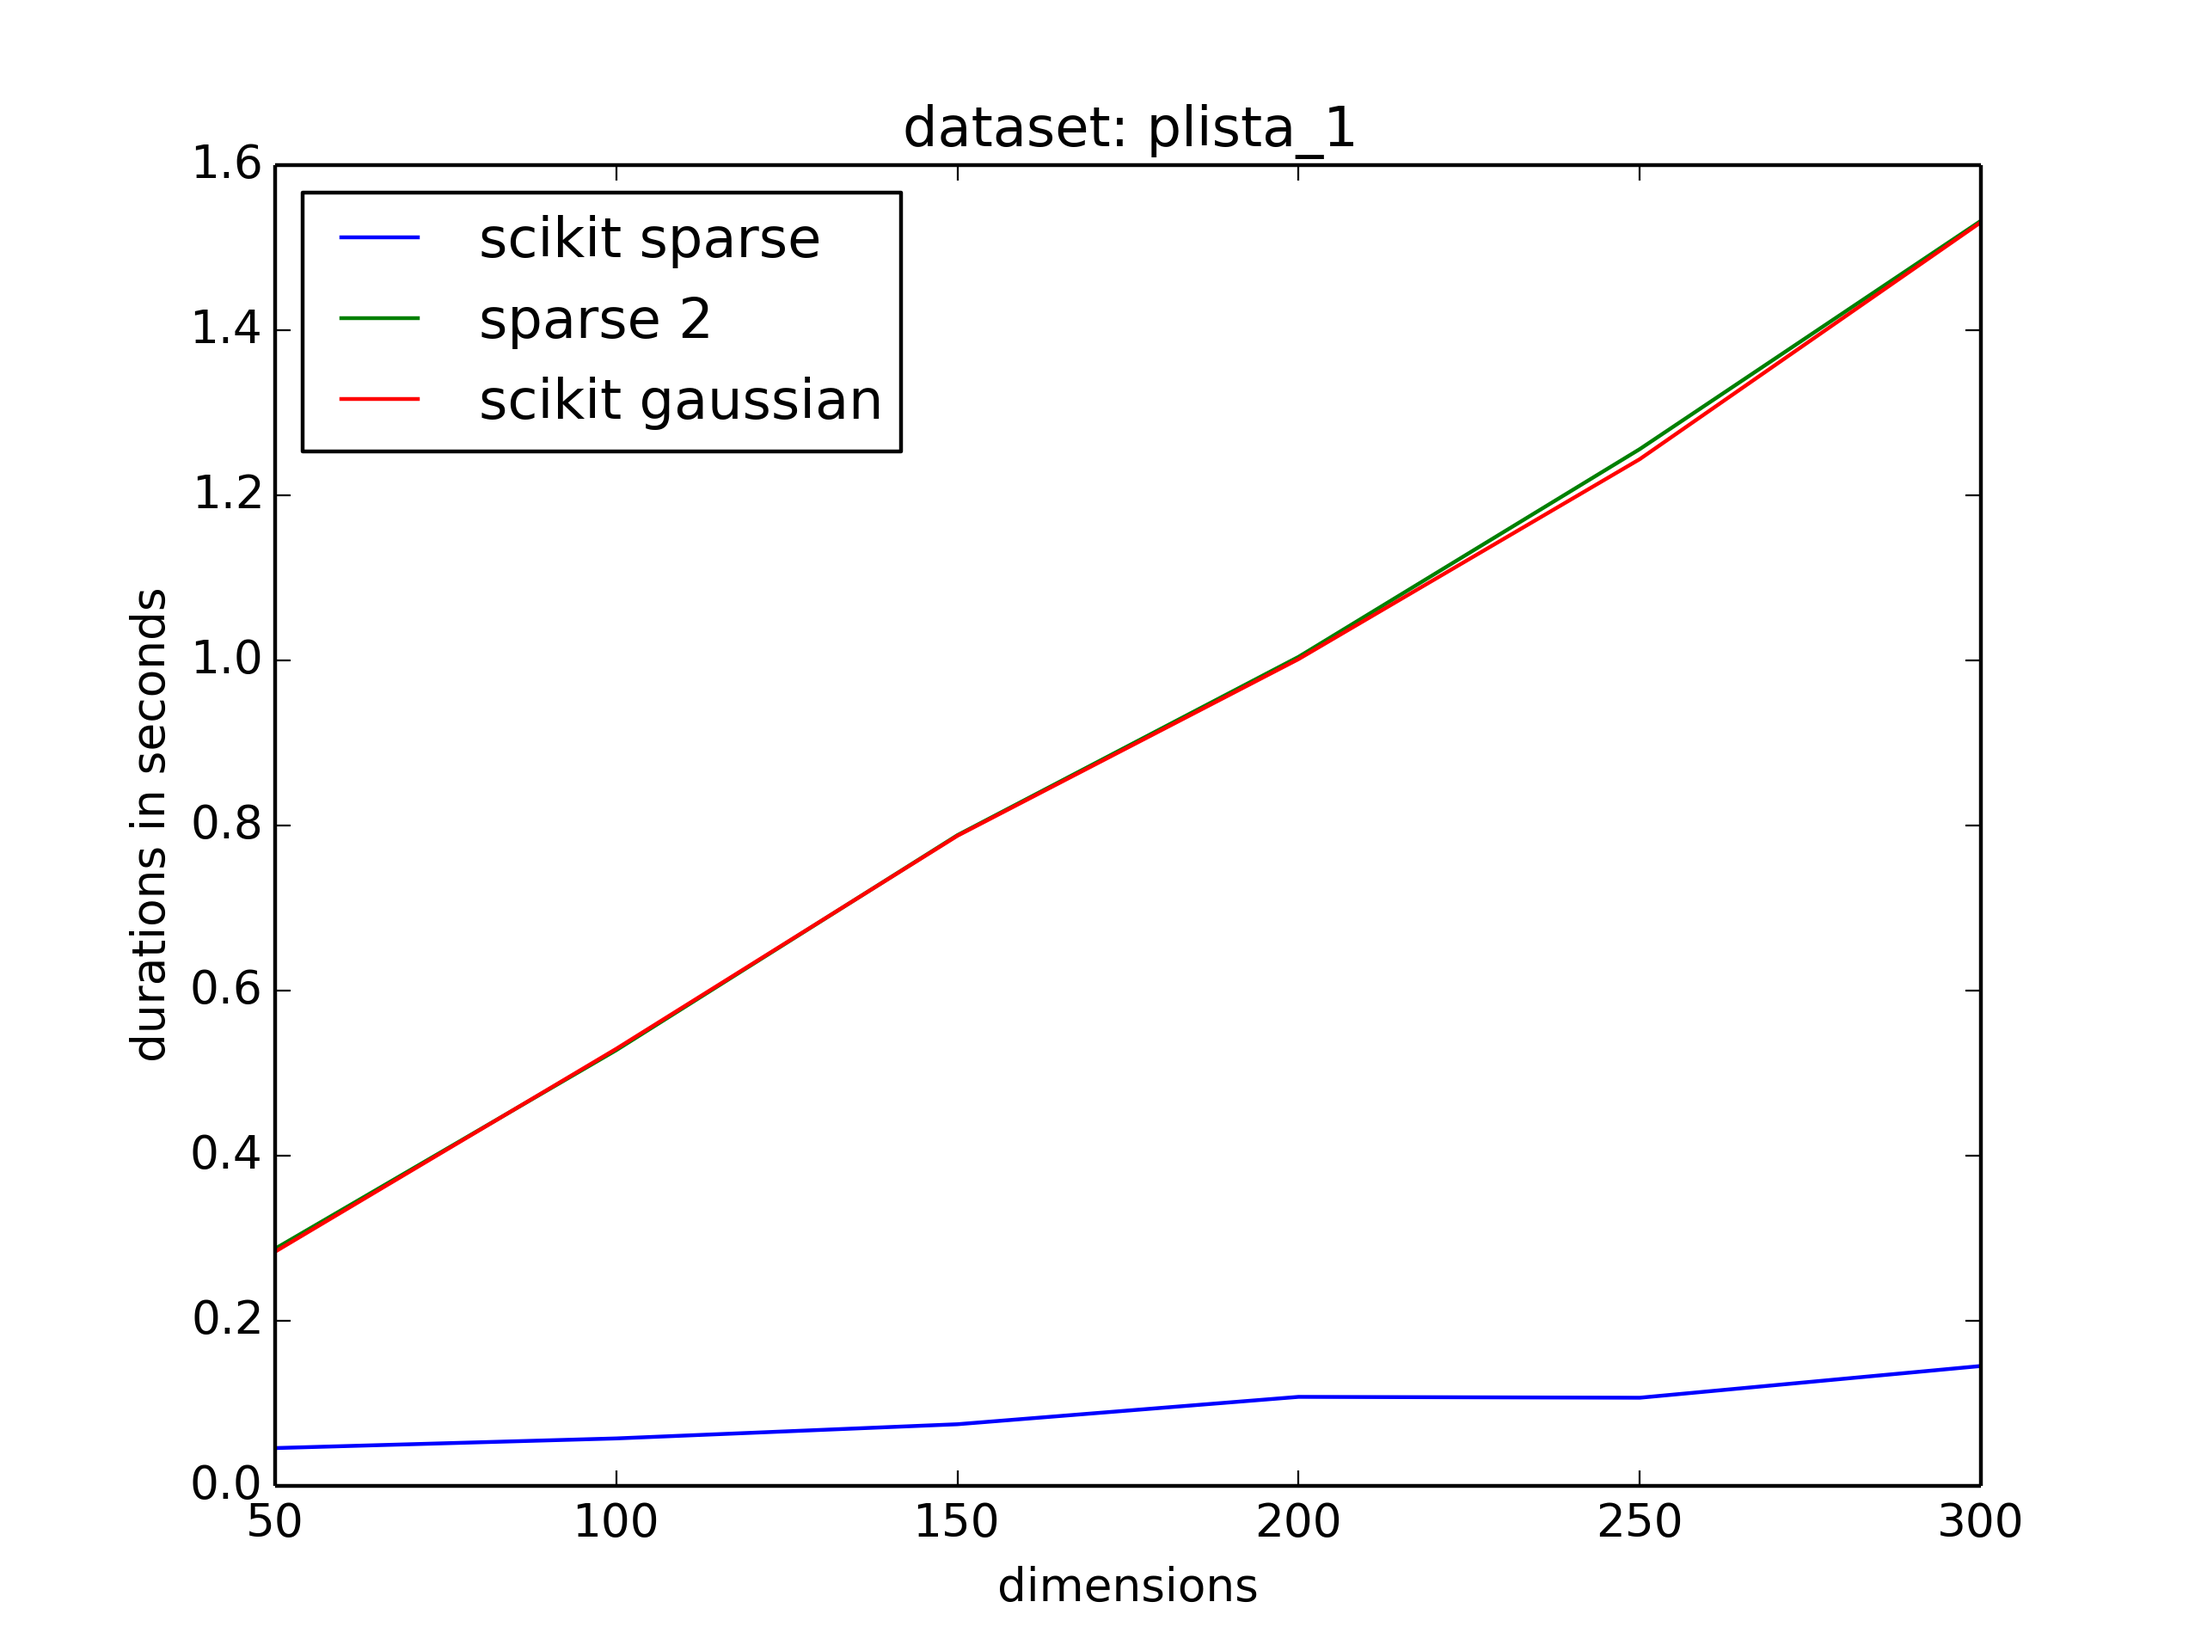
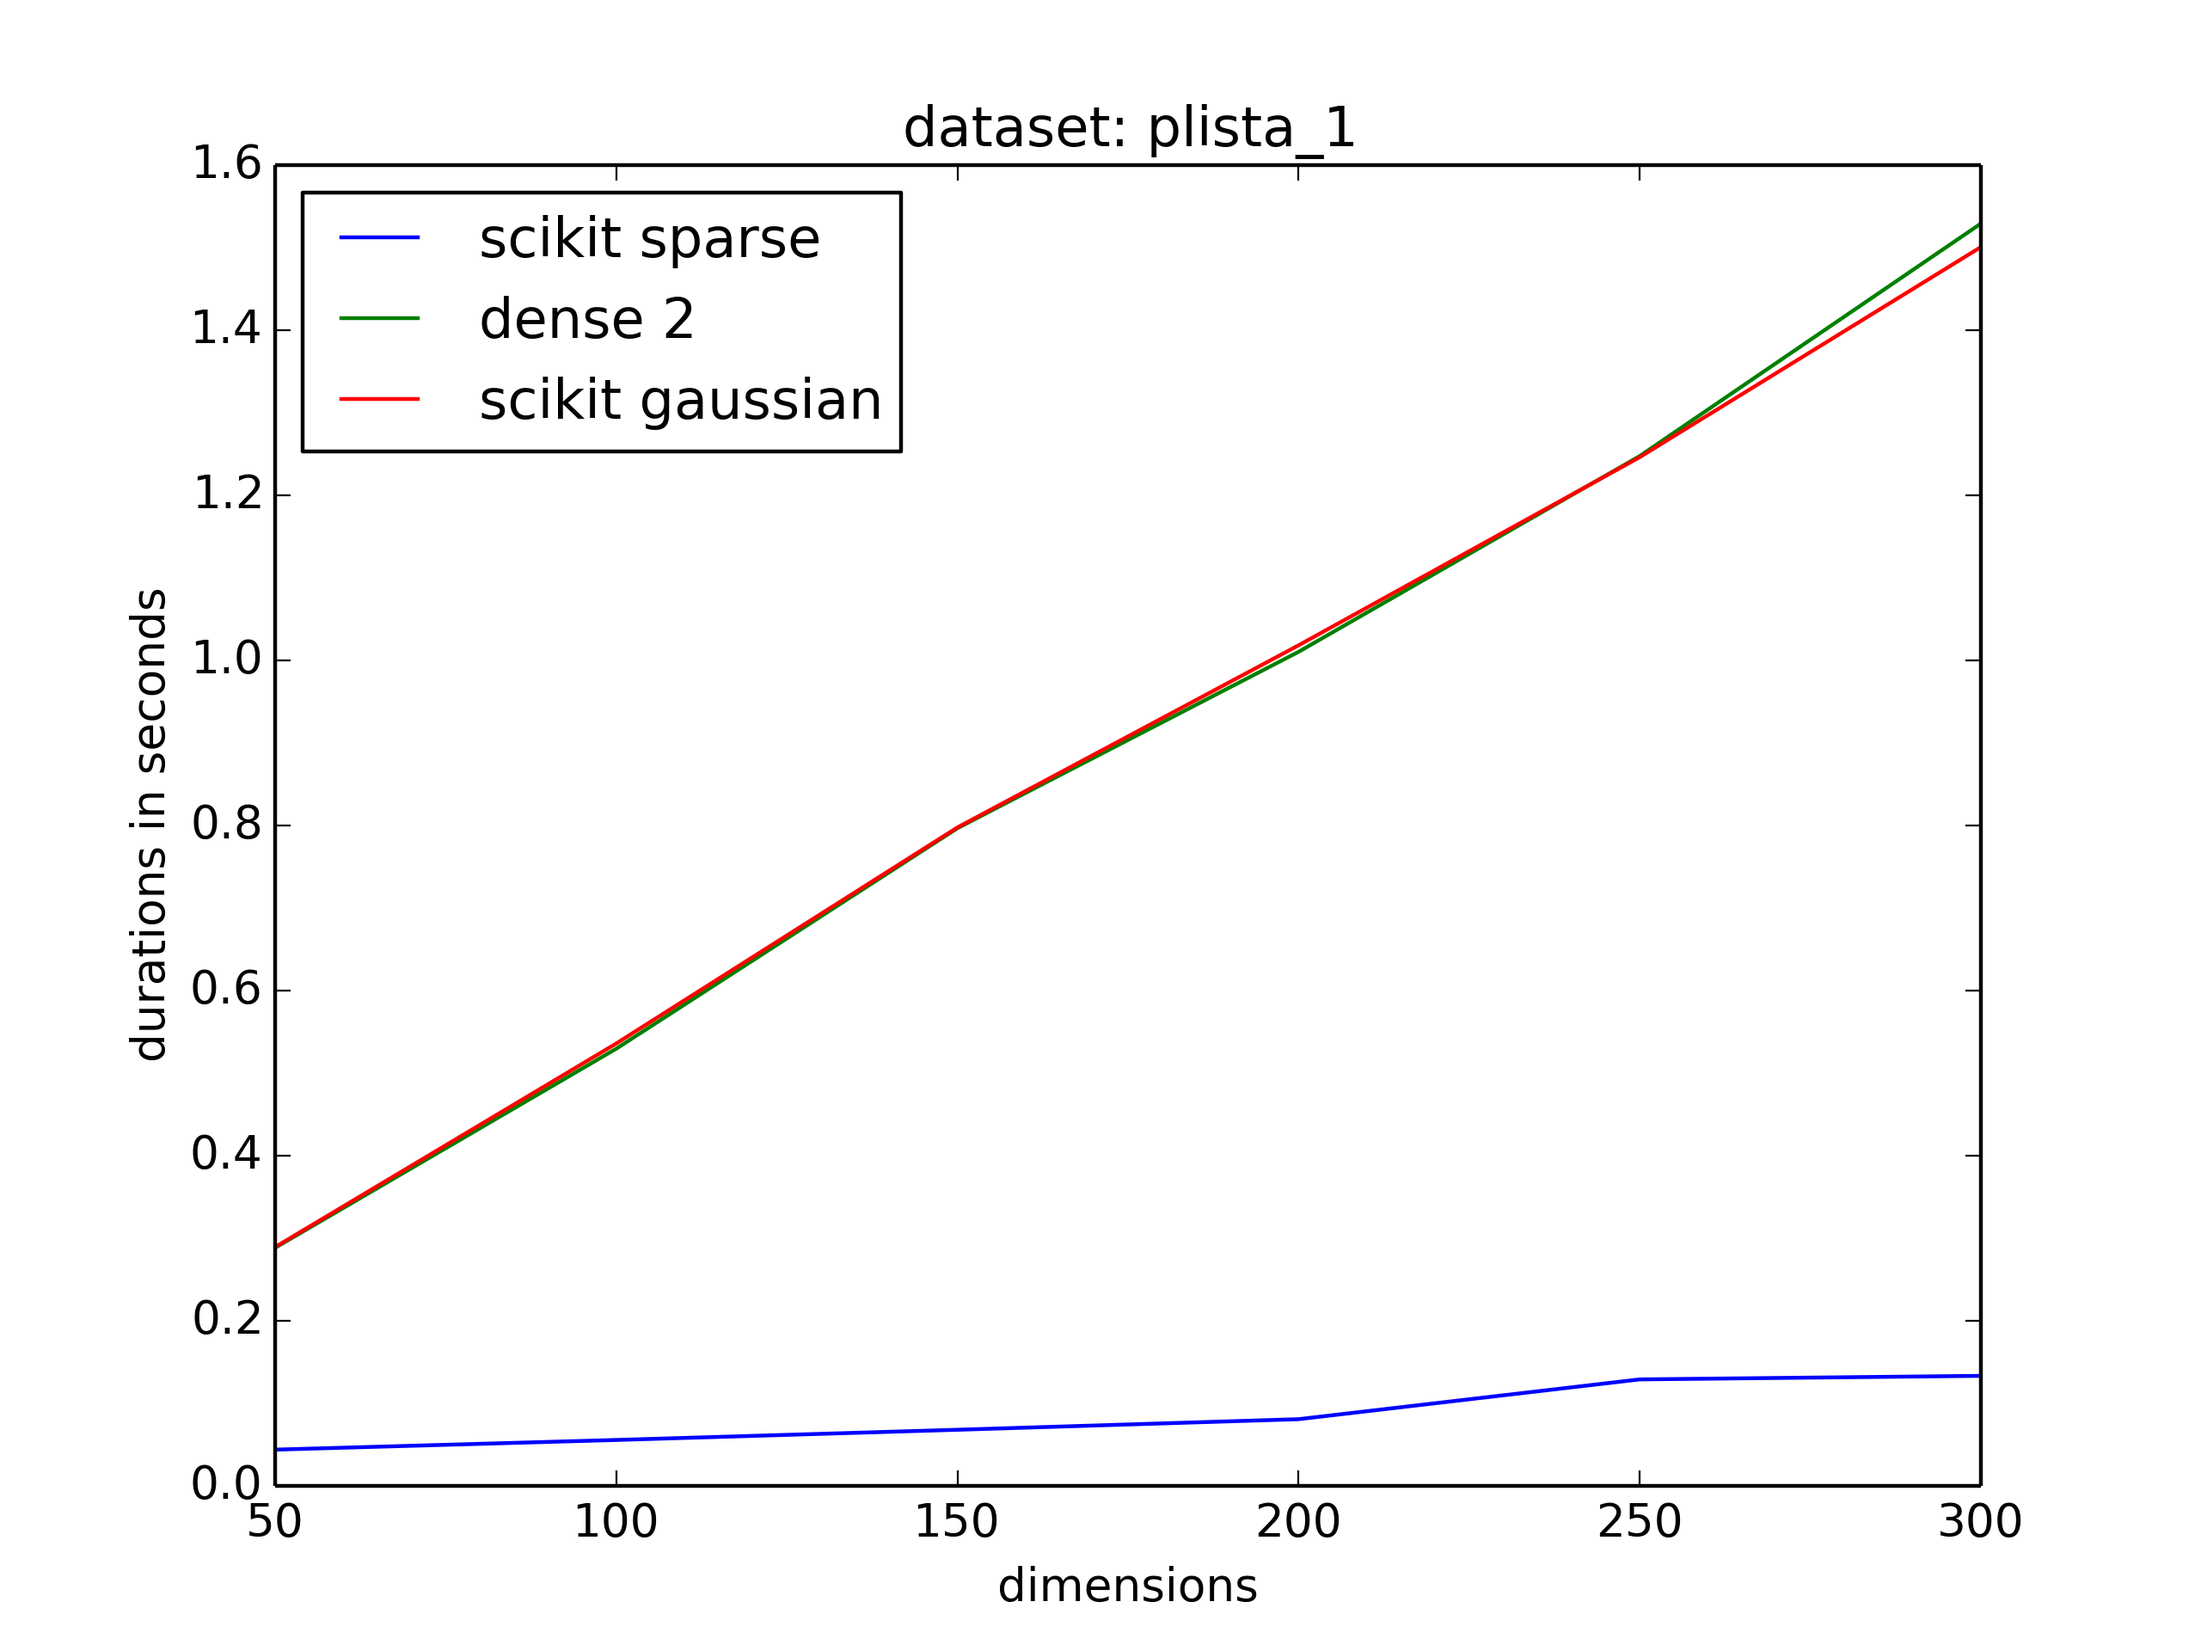
more tests

diff --git a/random-projection/quality_durations.py b/random-projection/quality_durations.py
@@ -30,7 +30,7 @@ for dataset in datasets.iterkeys():
 
     dimensions = np.arange(50, 350, 50)
     durations = {}
-    durations["sparse 2"] = []
+    durations["dense 2"] = []
     durations["scikit gaussian"] = []
     durations["scikit sparse"] = []
 
@@ -42,7 +42,7 @@ for dataset in datasets.iterkeys():
         matrixB = csc_matrix(np.transpose(scikit_rp.getGaussianRP(dimension)._make_random_matrix(dimension, orig_columns)))
         matrixC = csc_matrix(np.transpose(scikit_rp.getSparseRP(dimension)._make_random_matrix(dimension, orig_columns).toarray()))
 
-        rand_matrices["sparse 2"] = matrixA
+        rand_matrices["dense 2"] = matrixA
         rand_matrices["scikit gaussian"] = matrixB
         rand_matrices["scikit sparse"] = matrixC
 
